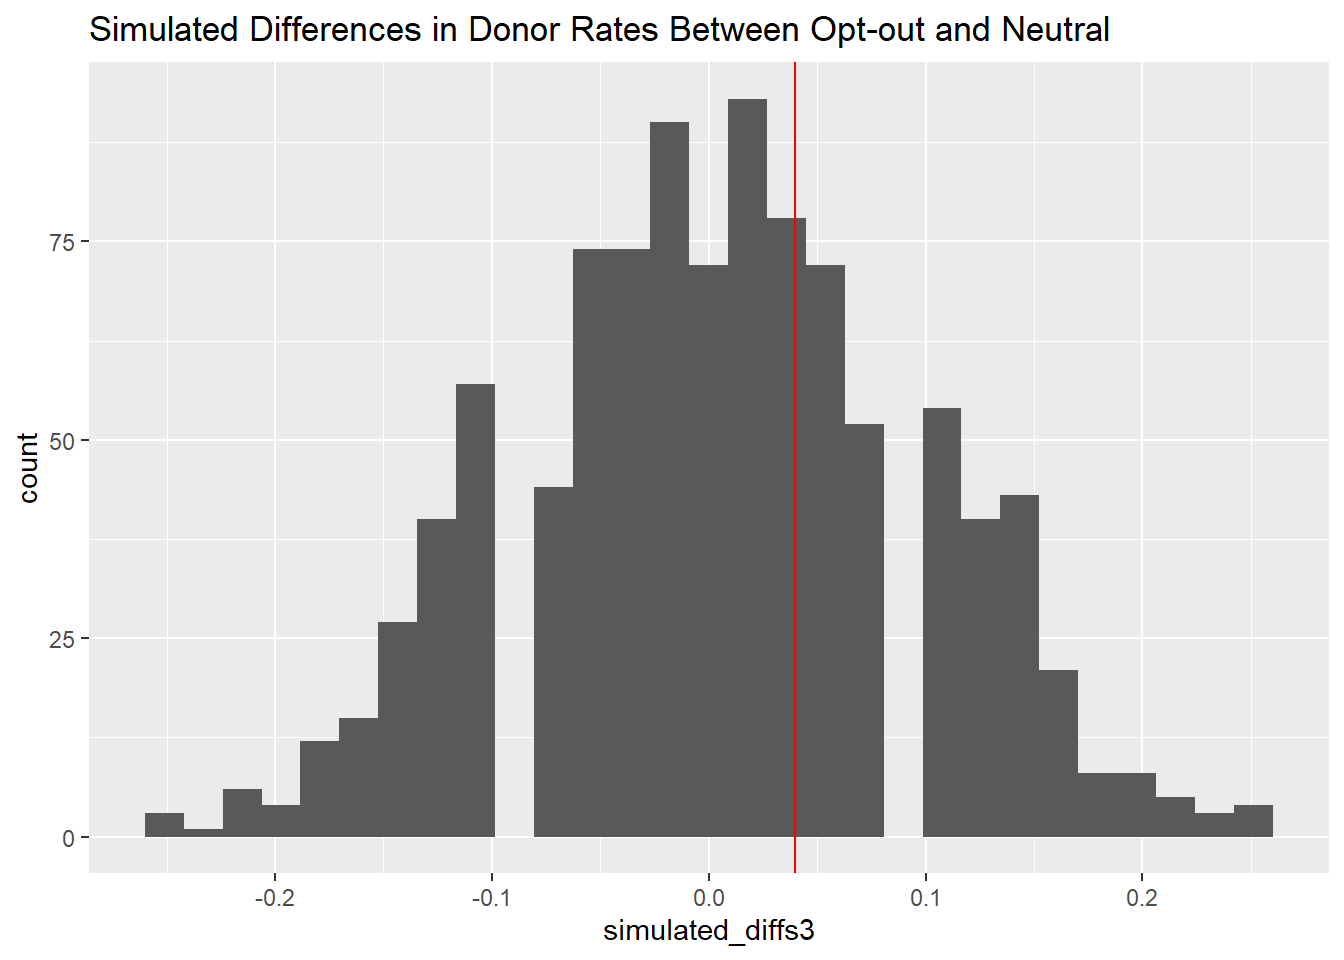
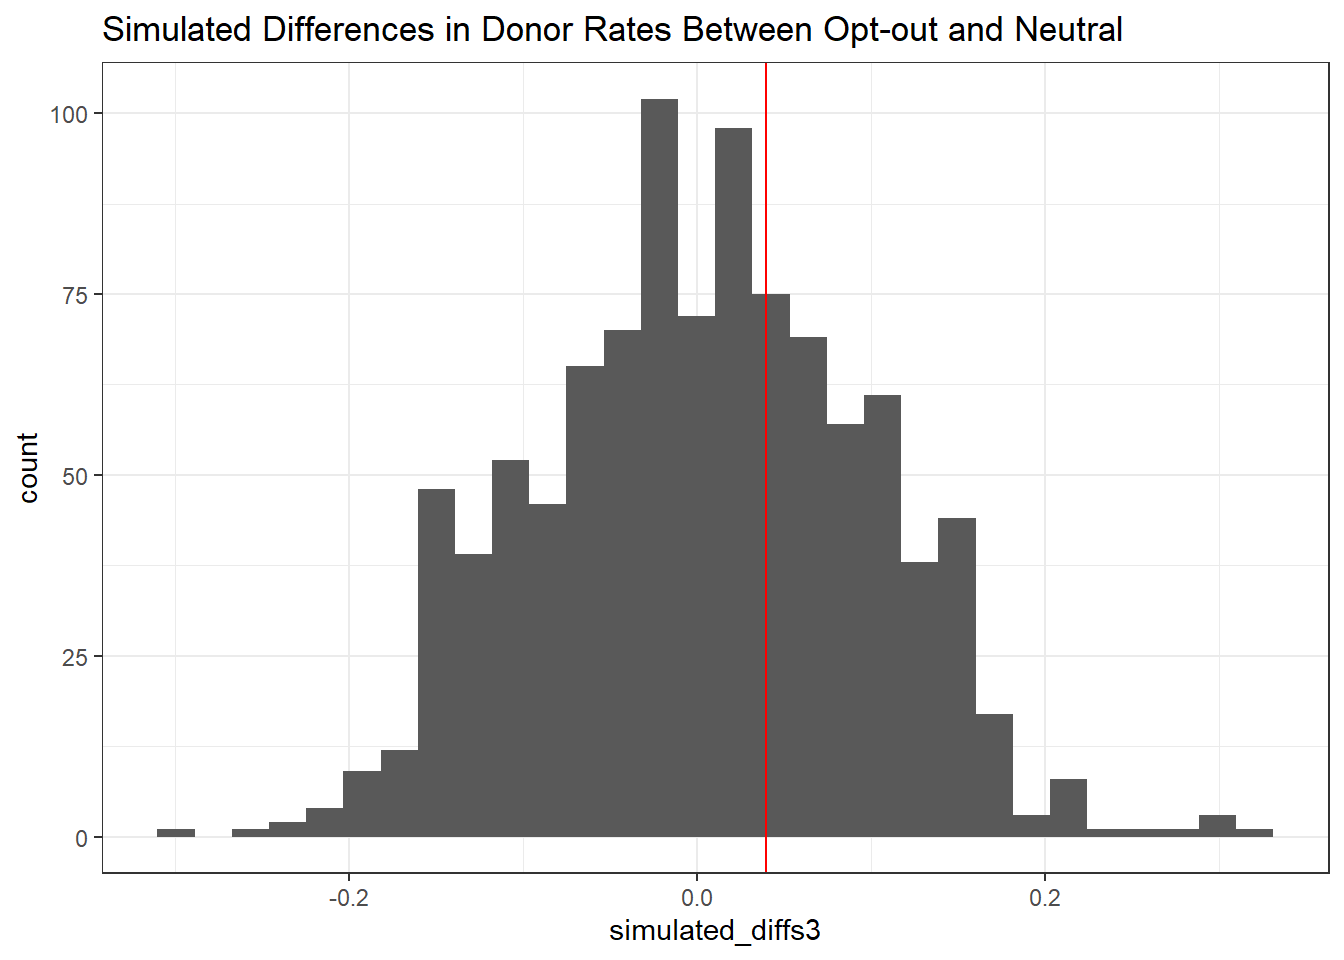
chi squared

diff --git a/docs/simulation.html b/docs/simulation.html
@@ -20,40 +20,6 @@ ul.task-list li input[type="checkbox"] {
   margin: 0 0.8em 0.2em -1em; /* quarto-specific, see https://github.com/quarto-dev/quarto-cli/issues/4556 */ 
   vertical-align: middle;
 }
-/* CSS for syntax highlighting */
-pre > code.sourceCode { white-space: pre; position: relative; }
-pre > code.sourceCode > span { display: inline-block; line-height: 1.25; }
-pre > code.sourceCode > span:empty { height: 1.2em; }
-.sourceCode { overflow: visible; }
-code.sourceCode > span { color: inherit; text-decoration: inherit; }
-div.sourceCode { margin: 1em 0; }
-pre.sourceCode { margin: 0; }
-@media screen {
-div.sourceCode { overflow: auto; }
-}
-@media print {
-pre > code.sourceCode { white-space: pre-wrap; }
-pre > code.sourceCode > span { text-indent: -5em; padding-left: 5em; }
-}
-pre.numberSource code
-  { counter-reset: source-line 0; }
-pre.numberSource code > span
-  { position: relative; left: -4em; counter-increment: source-line; }
-pre.numberSource code > span > a:first-child::before
-  { content: counter(source-line);
-    position: relative; left: -1em; text-align: right; vertical-align: baseline;
-    border: none; display: inline-block;
-    -webkit-touch-callout: none; -webkit-user-select: none;
-    -khtml-user-select: none; -moz-user-select: none;
-    -ms-user-select: none; user-select: none;
-    padding: 0 4px; width: 4em;
-  }
-pre.numberSource { margin-left: 3em;  padding-left: 4px; }
-div.sourceCode
-  {   }
-@media screen {
-pre > code.sourceCode > span > a:first-child::before { text-decoration: underline; }
-}
 </style>
 
 
@@ -172,36 +138,37 @@ pre > code.sourceCode > span > a:first-child::before { text-decoration: underlin
 
 </header>
 
-<p>In this study, participants were asked to imagine they moved to a new state and were filling out the form for a new drivers license. Some were given the option to opt-in to being an organ donor (being a non-donor is the default), others were given the option to opt-out of being a donor, and there was a control group with no default option.</p>
+<p>In this study, participants were asked to imagine they moved to a new state and were filling out the form for a new drivers license. Some were given the option to opt-in to being an organ donor (being a non-donor is the default), others were given the option to opt-out of being a donor (donor is the default), and there was a neutral group with no default option.</p>
+<p>First, I ran a Chi-Squared Test to see if the response (Donor or Non-Donor) was related to the group (Opt-in, Opt-out, Neutral).</p>
 <div class="cell">
 <div class="cell-output-display">
-<p><img src="simulation_files/figure-html/unnamed-chunk-6-1.png" class="img-fluid" width="672"></p>
+<p><img src="simulation_files/figure-html/unnamed-chunk-7-1.png" class="img-fluid" width="672"></p>
 </div>
 <div class="cell-output cell-output-stdout">
-<pre><code>[1] 0.001</code></pre>
+<pre><code>[1] 0</code></pre>
+</div>
+</div>
+<p>The plot depicts a histogram of the 1000 simulated chi-squared values for the data. The histogram is skewed right, which is expected for a chi-squared distribution. The red line marks the chi-squared statistic for the observed data which is 22.1. The difference between the simulated chi-squared values and the observed value, along with the p value &lt; 0.05 tells us there is significant evidence that the different options of opt-in, opt-out, and neutral have an effect on whether or not individuals decide to be a donor.</p>
+<p>Then I decided to look specifically at the effect of Opt-in or Opt-out when compared to Neutral.</p>
+<div class="cell">
+<div class="cell-output-display">
+<p><img src="simulation_files/figure-html/unnamed-chunk-10-1.png" class="img-fluid" width="672"></p>
+</div>
+<div class="cell-output cell-output-stdout">
+<pre><code>[1] 0</code></pre>
 </div>
 </div>
 <p>The plot depicts a histogram of the 1000 simulated differences between the rate of donors when given the option to opt-in to being a donor compared to when the option is neutral. The histogram is approximately normal and centered at zero. The red line marks the observed difference between opt-in and neutral which is -0.36. This means that from the observed data, when the option is neutral we can expect donor rates to be 36% higher than when participants have to opt-in to being a donor. Additionally, the p value is &lt; 0.05 which means there is a significant difference between the two groups.</p>
 <div class="cell">
 <div class="cell-output-display">
-<p><img src="simulation_files/figure-html/unnamed-chunk-9-1.png" class="img-fluid" width="672"></p>
+<p><img src="simulation_files/figure-html/unnamed-chunk-13-1.png" class="img-fluid" width="672"></p>
 </div>
 <div class="cell-output cell-output-stdout">
-<pre><code>[1] 0.745</code></pre>
+<pre><code>[1] 0.763</code></pre>
 </div>
 </div>
 <p>The plot depicts a histogram of the 1000 simulated differences between the rate of donors when given the option to opt-out to being a donor compared to when the option is neutral. The histogram is approximately normal and centered at zero. The red line marks the observed difference between opt-out and neutral which is 0.04. This means that from the observed data, when the option is neutral we can expect donor rates to be 4% lower than when participants have to opt-out of being a donor. Additionally, the p value is &gt; 0.05 which means there is not a significant difference between the two groups.</p>
-<p>In conclusion, there is a significant difference in donor rates between the options of opt-in and neutral. There is not a significant difference in donor rates between opt-out and neutral. Therefore, if a state wanted to increase donor rates, based off this study, they should either have citizens choose to opt-out of being a donor or phrase the question in a neutral way.</p>
-<p>##chi squared?</p>
-<div class="cell">
-<div class="sourceCode cell-code" id="cb3"><pre class="sourceCode r code-with-copy"><code class="sourceCode r"><span id="cb3-1"><a href="#cb3-1" aria-hidden="true" tabindex="-1"></a>organ2 <span class="ot">&lt;-</span> <span class="fu">matrix</span>(<span class="fu">c</span>(<span class="dv">21</span>,<span class="dv">29</span>,<span class="dv">41</span>,<span class="dv">9</span>,<span class="dv">39</span>,<span class="dv">11</span>), <span class="at">ncol=</span><span class="dv">2</span>, <span class="at">byrow=</span><span class="cn">TRUE</span>)</span>
-<span id="cb3-2"><a href="#cb3-2" aria-hidden="true" tabindex="-1"></a><span class="fu">colnames</span>(organ2) <span class="ot">&lt;-</span> <span class="fu">c</span>(<span class="st">"Donor"</span>, <span class="st">"Non-Donor"</span>)</span>
-<span id="cb3-3"><a href="#cb3-3" aria-hidden="true" tabindex="-1"></a><span class="fu">rownames</span>(organ2) <span class="ot">&lt;-</span> <span class="fu">c</span>(<span class="st">"Opt-in"</span>,<span class="st">"Opt-out"</span>,<span class="st">"Neutral"</span>)</span>
-<span id="cb3-4"><a href="#cb3-4" aria-hidden="true" tabindex="-1"></a>organ2 <span class="ot">&lt;-</span> <span class="fu">as.table</span>(organ2)</span></code><button title="Copy to Clipboard" class="code-copy-button"><i class="bi"></i></button></pre></div>
-</div>
-<div class="cell">
-<div class="sourceCode cell-code" id="cb4"><pre class="sourceCode r code-with-copy"><code class="sourceCode r"><span id="cb4-1"><a href="#cb4-1" aria-hidden="true" tabindex="-1"></a>chisq <span class="ot">&lt;-</span> <span class="fu">chisq.test</span>(organ2)<span class="sc">$</span>p.value</span></code><button title="Copy to Clipboard" class="code-copy-button"><i class="bi"></i></button></pre></div>
-</div>
+<p>In conclusion, the Chi-Squared test told us that the choice to be a donor is definitely related to the different options that are given. When taking a closer look at the different options, we can conclude that there is a significant difference in donor rates between the options of opt-in and neutral. There is not a significant difference in donor rates between opt-out and neutral. Therefore, if a state wanted to increase donor rates, based off this study and the simulation, they should either have citizens choose to opt-out of being a donor or phrase the question in a neutral way.</p>
 
 
 
